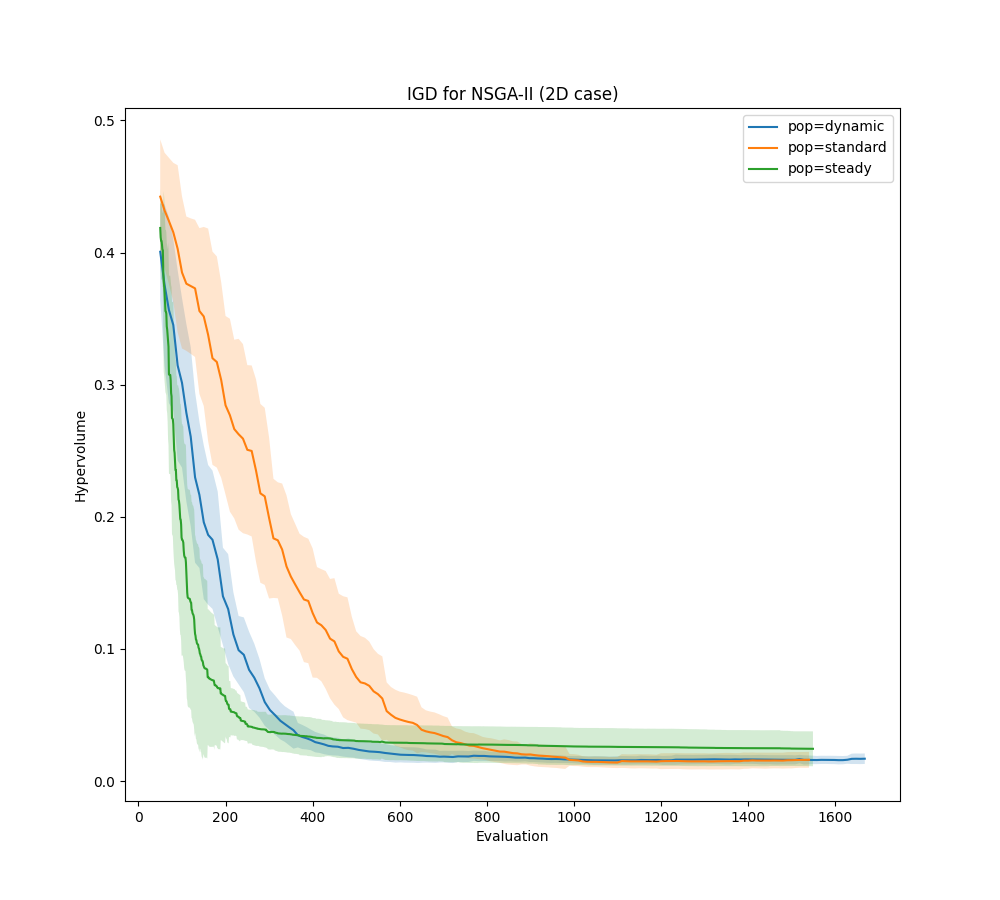
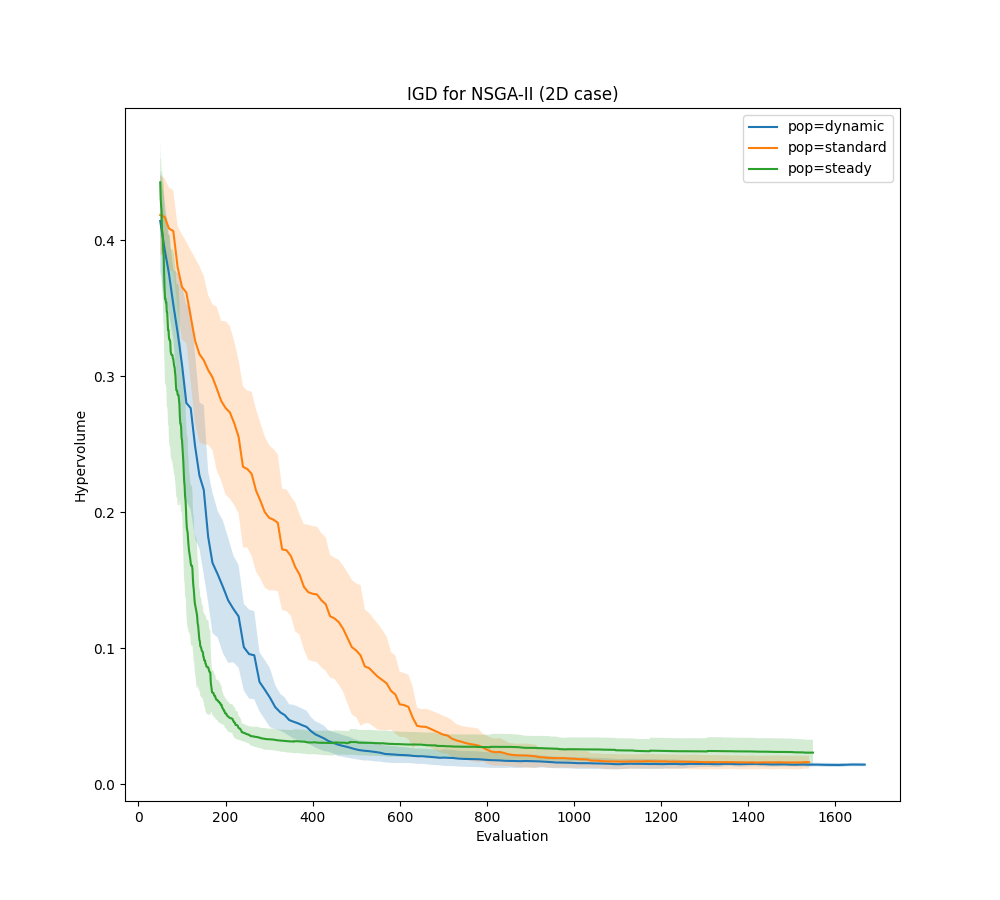
Good looking visualizations

diff --git a/lab02.py b/lab02.py
@@ -87,7 +87,7 @@ for _ in range(10):
     standard_data.append(c)
     steady_data.append(d)
 
-debug2d_animated_3way([steady_data[-1], island_data[-1], steady_data[-1]],stocks_expected_return, stocks_covariance)
+debug2d_animated_3way([steady_data[-1], island_data[-1], standard_data[-1]],stocks_expected_return, stocks_covariance)
 plt.figure(figsize=(10, 9))
 
 methods = [("dynamic", island_data), ("standard", standard_data), ("steady", steady_data)]

diff --git a/lab02utils.py b/lab02utils.py
@@ -505,7 +505,7 @@ def debug2d_animated_3way(
         fig,
         update,
         frames=len(all_evals),
-        interval=300,
+        interval=50,
         blit=False
     )
 
